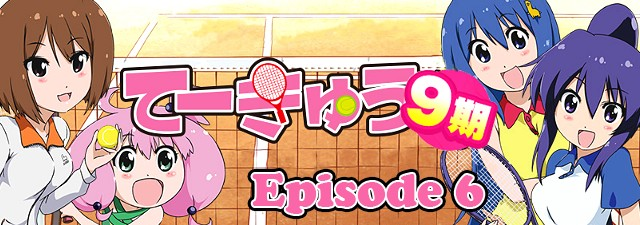
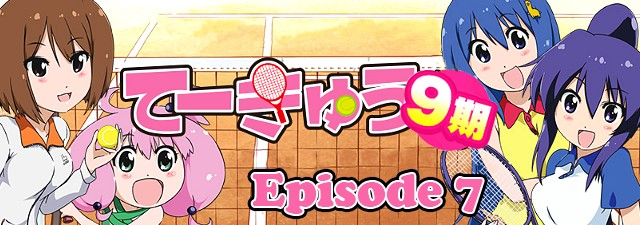
new release

Changed region(s): [[0.6875, 0.7467, 0.7812, 0.9644]]

diff --git a/2017-08-28.html b/2017-08-28.html
@@ -1,0 +1,103 @@
+<!DOCTYPE html>
+<html lang="fr-FR">
+	<head>
+		<title>Teekyuu Saison 9 Ep 7 vostfr | Nobluesky Fansub</title>
+		<meta charset="utf-8" />
+		<meta name=viewport content="width=980">
+		<link rel="Shortcut Icon" type="image/x-icon" href="favicon.ico" />
+		<link href="fonts/fonts.css" rel="stylesheet" type="text/css" />
+		<link href="style.css" rel="stylesheet" type="text/css" media="screen" />
+		<link rel="stylesheet" href="menu.css" type="text/css" />
+		<script src="jquery.js" type="text/javascript"></script>
+		<script src="background-script.js" type="text/javascript"></script>
+	</head>
+<body>
+<div class="banner">
+	<a title="Nobluesky Fansub" href="index.html"> <img class="banner" alt="Nobluesky Fansub" title="Nobluesky Fansub" src="images/banner.png"/> </a>
+</div>
+<!-- end banner -->
+<div id="menu-wrapper">
+	<div id="menu">
+		<script type="text/javascript">
+		$( '#menu' ).load( 'menu.html' );
+		</script>
+		<noscript>Activez javascript pour voir le menu!</noscript>
+	</div>
+</div>
+<!-- end #menu -->
+<div id="page-wrapper">
+<div id="sidebar-wrapper">
+	<div id="sidebar">
+		<script type="text/javascript">
+		$( '#sidebar' ).load( 'sidebar.html' );
+		</script>
+	</div>
+	<!-- end #sidebar -->
+</div>
+	<div id="article">
+		<div id="content">
+			<div class="post">
+				<h1 class="title">Teekyuu Saison 9 Ep 7 vostfr</h1>
+				<p class="meta"><span class="date">28 Août 2017</span><span class="posted">Posté par <a href="about.html#nobluesky">Nobluesky</a></span></p>
+				<div style="clear: both;">&nbsp;</div>
+				<div class="entry">
+					<img class="post-images" src="images/2017/news11.jpg" alt="" />
+					<p>Bonjour,</p>
+					<p>voici votre dose de Teekyuu hebdomadaire, qui a un peu traîné en route. Moins il y a de boulot, plus on se dit qu'on est pas pressé, fatale erreur :P</p>
+					<p>Cette fois, nous entrons dans un terribre manoir hanté. Et je suis sûr qu'après cette expérience, vous ne verrez plus jamais vos rideaux de la même façon en les tirant le soir :D</p>
+					<p>À la semaine prochaine, bon visionnage !</p>
+					<h3>Téléchargements et streaming</h3>
+					<p class="links dl"><a href="http://ddl.nobluesub.com/teekyuu9.html" class="button-dl">Dédié</a></p>&nbsp; | &nbsp;
+					<p class="links dl"><a href="http://jheberg.net/captcha/nobluesub-teekyuu-s9-07-hd-1280x720-x264/" class="button-dl">Jheberg</a></p>&nbsp; | &nbsp;
+					<p class="links dl"><a href="https://rutube.ru/video/d107defedcc01579f5a016bb0c37cb82/" class="button-dl">Rutube</a></p>&nbsp; | &nbsp;
+					<p class="links dl"><a href="https://mega.nz/#!yANxhCAR!oqXF_2ZAiLIXpfZxU9eK3Flr-7BtrD9zphZoEpaELbU" class="button-dl">Mega</a></p>
+					<h3>Commentaires</h3>
+					<div id="disqus_thread"></div>
+					<script type="text/javascript">
+						/* * * CONFIGURATION VARIABLES: EDIT BEFORE PASTING INTO YOUR WEBPAGE * * */
+						var disqus_shortname = 'noblueskyfansub'; // required: replace example with your forum shortname
+
+						/* * * DON'T EDIT BELOW THIS LINE * * */
+						(function() {
+							var dsq = document.createElement('script'); dsq.type = 'text/javascript'; dsq.async = true;
+							dsq.src = '//' + disqus_shortname + '.disqus.com/embed.js';
+							(document.getElementsByTagName('head')[0] || document.getElementsByTagName('body')[0]).appendChild(dsq);
+						})();
+					</script>
+					<noscript>Activez javascript pour voir les commentaires.</noscript>
+					<a href="http://disqus.com" class="dsq-brlink">commentaires propulsés par <span class="logo-disqus">Disqus</span></a>
+				</div>
+			</div>
+			<div style="clear: both;">&nbsp;</div>
+		</div>
+		<!-- end #content -->
+		<div style="clear: both;">&nbsp;</div>
+	</div>
+</div>
+<!-- end #page -->
+<script type="text/javascript">
+$(window).scroll(function() {
+    if ($(this).scrollTop() < 1000) {
+        $("#footer").hide();
+    }
+    else {
+        $("#footer").show();
+    }
+});
+$(window).scroll(function() {
+  if ($(this).scrollTop() < 1000) {
+    $("footer").slideUp();
+      }
+  else {
+    $("footer").slideDown();
+      }
+});		
+</script>
+<div id="footer">
+	<script type="text/javascript">
+	$( '#footer' ).load( 'footer.html' );
+	</script>
+</div>
+<!-- end #footer -->
+</body>
+</html>

diff --git a/index.html b/index.html
@@ -35,7 +35,7 @@
 <div id="page-wrapper">
 	<div class="slider-wrapper theme-default">
 		<div id="slider" class="nivoSlider">
-			<a href="2017-08-23.html"><img src="images/img01.jpg" alt="" /></a><a href="2017-08-18.html"><img src="images/img02.jpg" alt="" /></a>
+			<a href="2017-08-28.html"><img src="images/img02.jpg" alt="" /></a><a href="2017-08-23.html"><img src="images/img01.jpg" alt="" /></a>
 		</div>
 	</div>
 <script type="text/javascript">
@@ -148,7 +148,7 @@
 			</div>
 			<script type="text/javascript">
 			$(".post").each(function() {
-			$(this).html($(this).html().replace(/#urlpost1/g, '2017-08-23.html').replace(/#urlpost2/g, '2017-08-18.html').replace(/#urlpost3/g, '2017-08-11.html').replace(/#urlpost4/g, '2017-08-06.html').replace(/#urlpost5/g, '2017-07-28.html'));
+			$(this).html($(this).html().replace(/#urlpost1/g, '2017-08-28.html').replace(/#urlpost2/g, '2017-08-23.html').replace(/#urlpost3/g, '2017-08-18.html').replace(/#urlpost4/g, '2017-08-11.html').replace(/#urlpost5/g, '2017-08-06.html'));
 			});
 			</script>
 			<div id="button-page-wrapper">

diff --git a/teekyuu9.html b/teekyuu9.html
@@ -78,6 +78,11 @@
 					<p class="links dl"><a href="http://jheberg.net/captcha/nobluesub-teekyuu-s9-06-hd-1280x720-x264/" class="button-dl">Jheberg</a></p>&nbsp; | &nbsp;
 					<p class="links dl"><a href="https://rutube.ru/video/18659463ac517d9b75d420466681d30e/" class="button-dl">Rutube</a></p>&nbsp; | &nbsp;
 					<p class="links dl"><a href="https://mega.nz/#!uVcBiSbA!KFA4H6G8-HCduWWBxKtwCXm3rCOFp0U45hIiY9QI1T8" class="button-dl">Mega</a></p>
+					<br>
+					Episode 07 :
+					<p class="links dl"><a href="http://jheberg.net/captcha/nobluesub-teekyuu-s9-07-hd-1280x720-x264/" class="button-dl">Jheberg</a></p>&nbsp; | &nbsp;
+					<p class="links dl"><a href="https://rutube.ru/video/d107defedcc01579f5a016bb0c37cb82/" class="button-dl">Rutube</a></p>&nbsp; | &nbsp;
+					<p class="links dl"><a href="https://mega.nz/#!yANxhCAR!oqXF_2ZAiLIXpfZxU9eK3Flr-7BtrD9zphZoEpaELbU" class="button-dl">Mega</a></p>
 				</div>
 			</div>
 			<div style="clear: both;">&nbsp;</div>

diff --git a/archives.html b/archives.html
@@ -42,16 +42,16 @@
 				<div style="clear: both;">&nbsp;</div>
 				<div class="entry">
 					
-				<!--	<h3 style="text-align: center;" >2017</h3>
+					<h3 style="text-align: center;" >2017</h3>
 					<input class="spoilerbutton" type="button" value="Voir" onclick="this.value=this.value=='Voir'?'Cacher':'Voir';"><div class="spoiler">
 					<div>
-					<!-- here comes spoiler content --
+					<!-- here comes spoiler content -->
 					<div style="clear: both;">&nbsp;</div>
 					<p><a href="2017-01-11.html" target="_blank" >pagetitle</a></p>
-					<!-- end spoiler content --
+					<!-- end spoiler content -->
 					</div>
 					</div>
-					-->
+					
 					
 					<h3 style="text-align: center;" >2016</h3>
 					<input class="spoilerbutton" type="button" value="Voir" onclick="this.value=this.value=='Voir'?'Cacher':'Voir';"><div class="spoiler">

diff --git a/page2.html b/page2.html
@@ -136,7 +136,7 @@
 			</div>
 			<script type="text/javascript">
 			$(".post").each(function() {
-			$(this).html($(this).html().replace(/#urlpost6/g, '2017-07-19.html').replace(/#urlpost7/g, '2017-06-28.html').replace(/#urlpost8/g, '2017-04-30.html').replace(/#urlpost9/g, '2017-02-21.html').replace(/#urlpost10/g, '2017-01-11.html'));
+			$(this).html($(this).html().replace(/#urlpost6/g, '2017-07-28.html').replace(/#urlpost7/g, '2017-07-19.html').replace(/#urlpost8/g, '2017-06-28.html').replace(/#urlpost9/g, '2017-04-30.html').replace(/#urlpost10/g, '2017-02-21.html'));
 			});
 			</script>
 			<div id="button-page-wrapper">

diff --git a/sidebar.html b/sidebar.html
@@ -38,9 +38,9 @@
 				</li>
 			</ul>
 			<ul id="avancements" style="list-style: none!important;">
-				<li>Teekyuu S9 Ep 07 : 50%
+				<li>Teekyuu S9 Ep 07 : 100%
 					<div class="progress-bar blue stripes" title="Progression" >
-					<span style="width: 50%"></span>
+					<span style="width: 100%"></span>
 					</div>
 				</li>
 			</ul>
